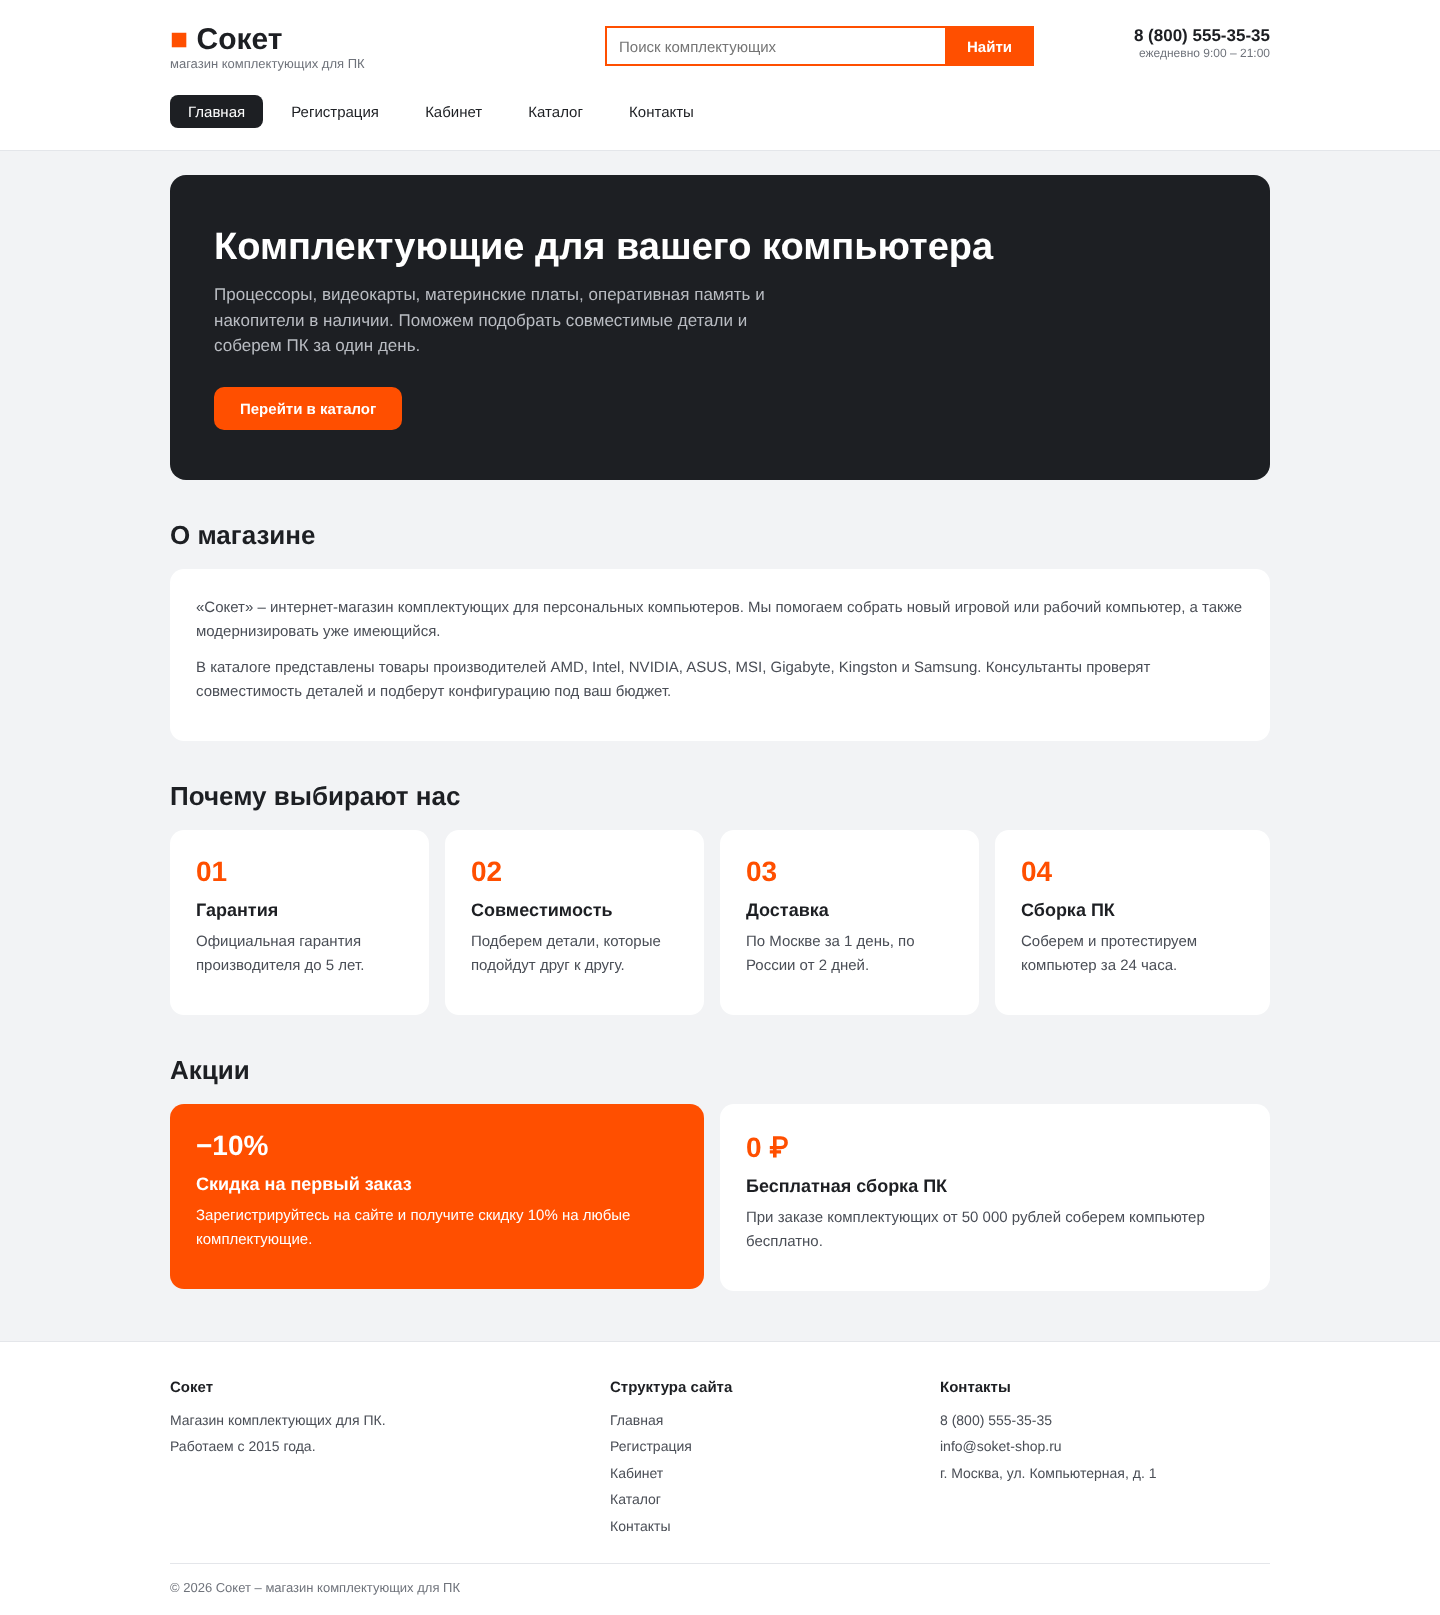
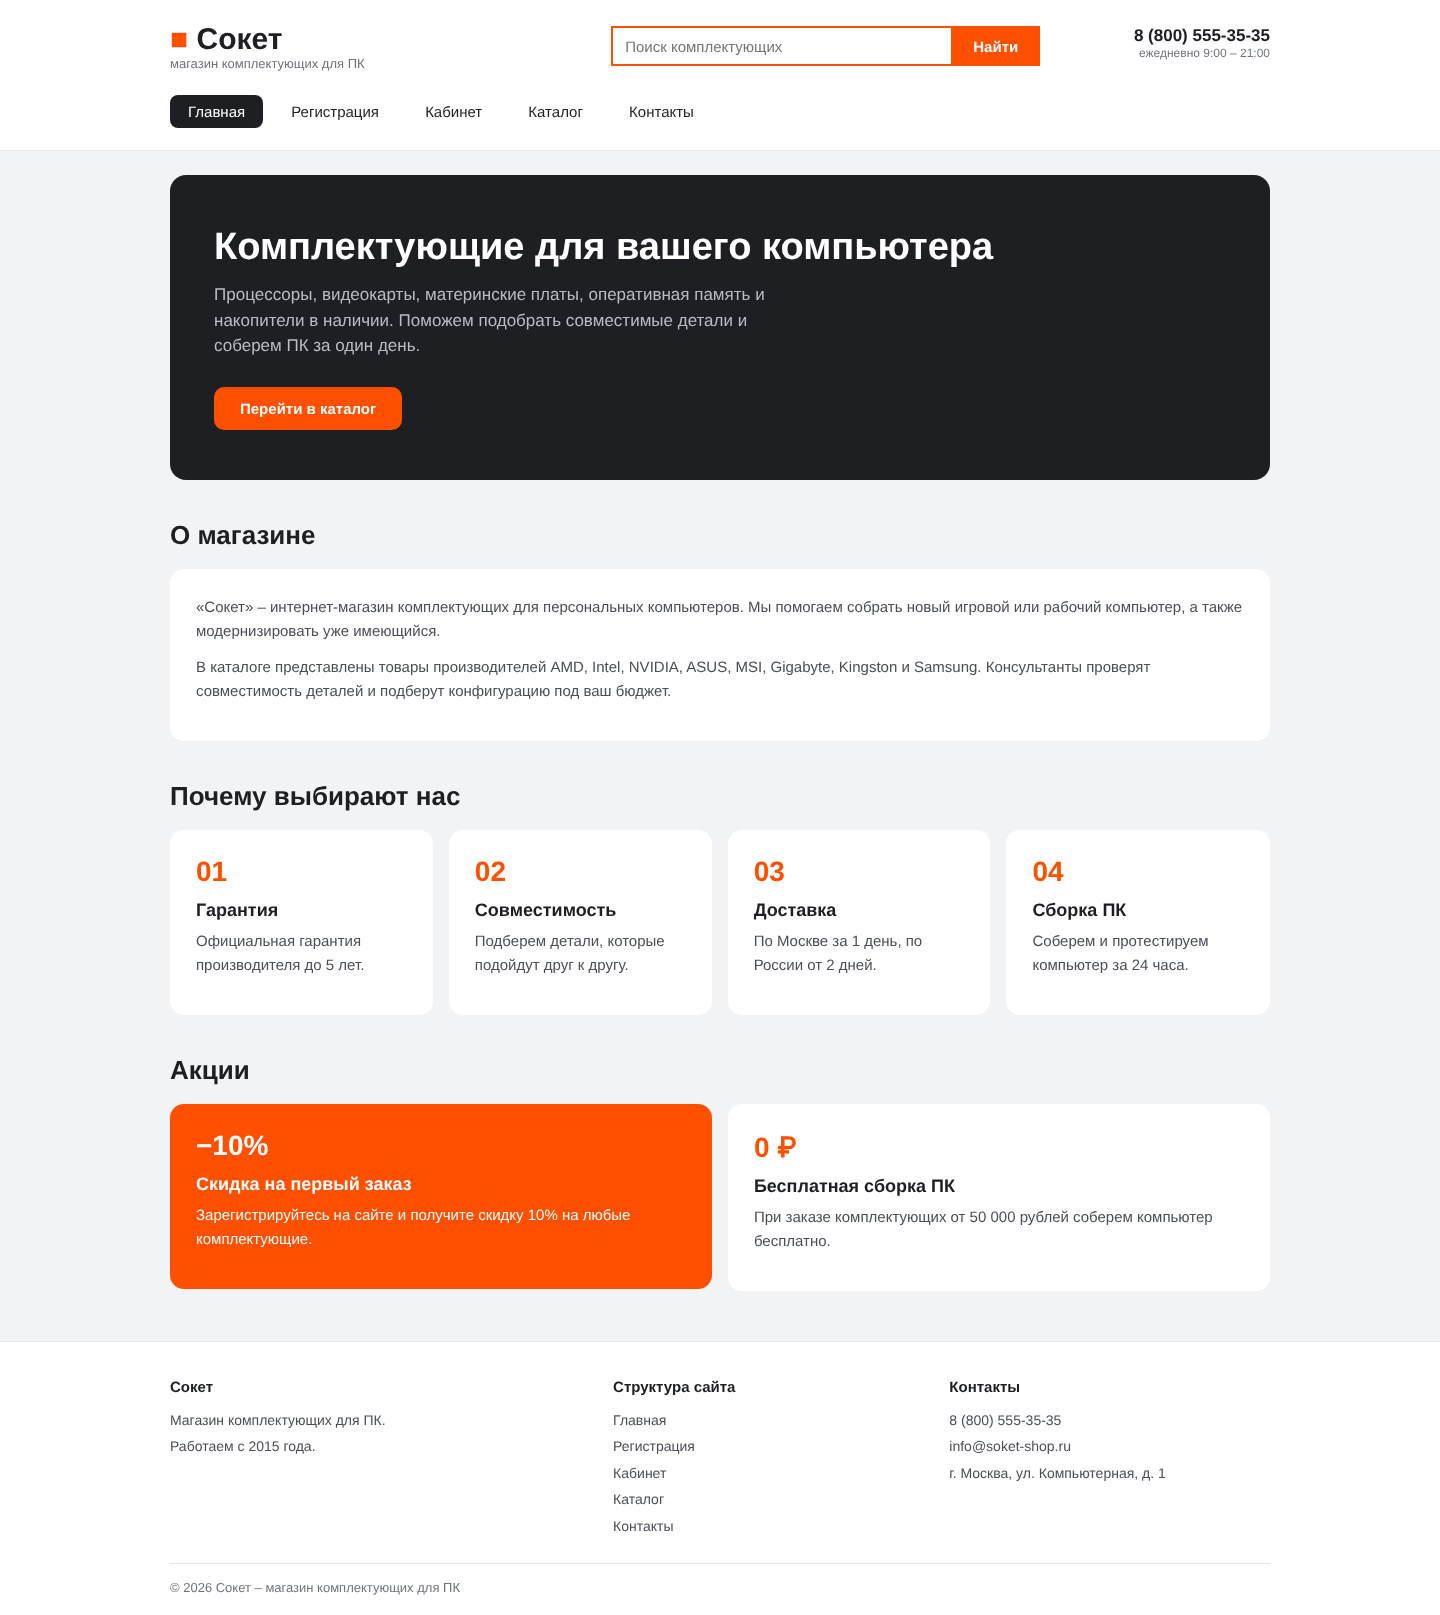
ЛР9: поправить отображение на телефоне
Claude-Session: https://claude.ai/code/session_01FPpNhkgtReaRARf6iDnnhE

diff --git a/lab9/head.php b/lab9/head.php
@@ -3,7 +3,7 @@
 <style>
 /* Общие стили */
 body { background-color: #f2f3f5; }
-table { border-collapse: collapse; border: none; }
+table { border-collapse: collapse; border: none; table-layout: fixed; }
 td { border: none; padding: 0; vertical-align: top; font-family: Arial, sans-serif; font-size: 15px; color: #1d1f23; }
 a { color: #1d1f23; text-decoration: none; }
 .wrap { max-width: 1100px; margin: 0 auto; padding: 0 20px; }
@@ -52,6 +52,7 @@ h1 { margin: 40px 0 18px 0; font-size: 26px; }
 
 /* Телефон */
 @media (max-width: 700px) {
+	.setka, .setka tbody, .setka tr { display: block; width: 100%; }
 	.setka td { display: block; width: auto !important; padding: 0 0 12px 0; }
 	.shapka { height: auto; padding-bottom: 12px; }
 	.poisk, .tel { padding-top: 12px; text-align: left; }
